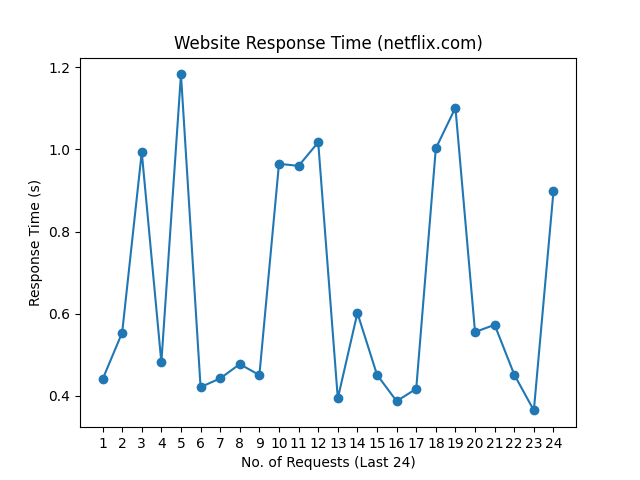
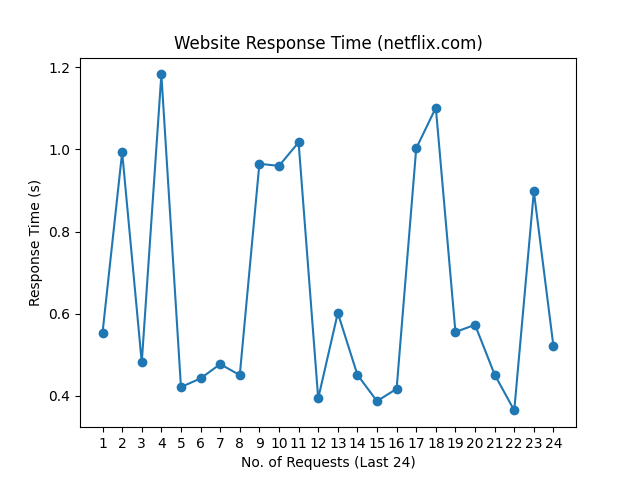
update README.md, history and graph

Changed region(s): [[0.1562, 0.125, 0.875, 0.875]]

diff --git a/README.md b/README.md
@@ -1,10 +1,10 @@
 # Web Monitoring
 
-Last Checked: 24/06/2024 08:18
+Last Checked: 25/06/2024 08:16
 
 | Website | Response Time (s) | Status | Avg Uptime (%) |
 |---------|-------------------|--------|----------------|
 | www.thiswebsiteisdown.net | 0 <br> <img src="graph/thiswebsiteisdown.net.png" alt="Graph" width="200" height="200">  | ❌ Down | 0.00 |
-| www.netflix.com | 0.898020 <br> <img src="graph/netflix.com.png" alt="Graph" width="200" height="200">  | ✅ Up | 100.00 |
-| www.google.com | 0.070838 <br> <img src="graph/google.com.png" alt="Graph" width="200" height="200">  | ✅ Up | 100.00 |
-| www.facebook.com | 0.293481 <br> <img src="graph/facebook.com.png" alt="Graph" width="200" height="200">  | ✅ Up | 100.00 |
+| www.netflix.com | 0.520595 <br> <img src="graph/netflix.com.png" alt="Graph" width="200" height="200">  | ✅ Up | 100.00 |
+| www.google.com | 0.075368 <br> <img src="graph/google.com.png" alt="Graph" width="200" height="200">  | ✅ Up | 100.00 |
+| www.facebook.com | 1.097673 <br> <img src="graph/facebook.com.png" alt="Graph" width="200" height="200">  | ✅ Up | 100.00 |
